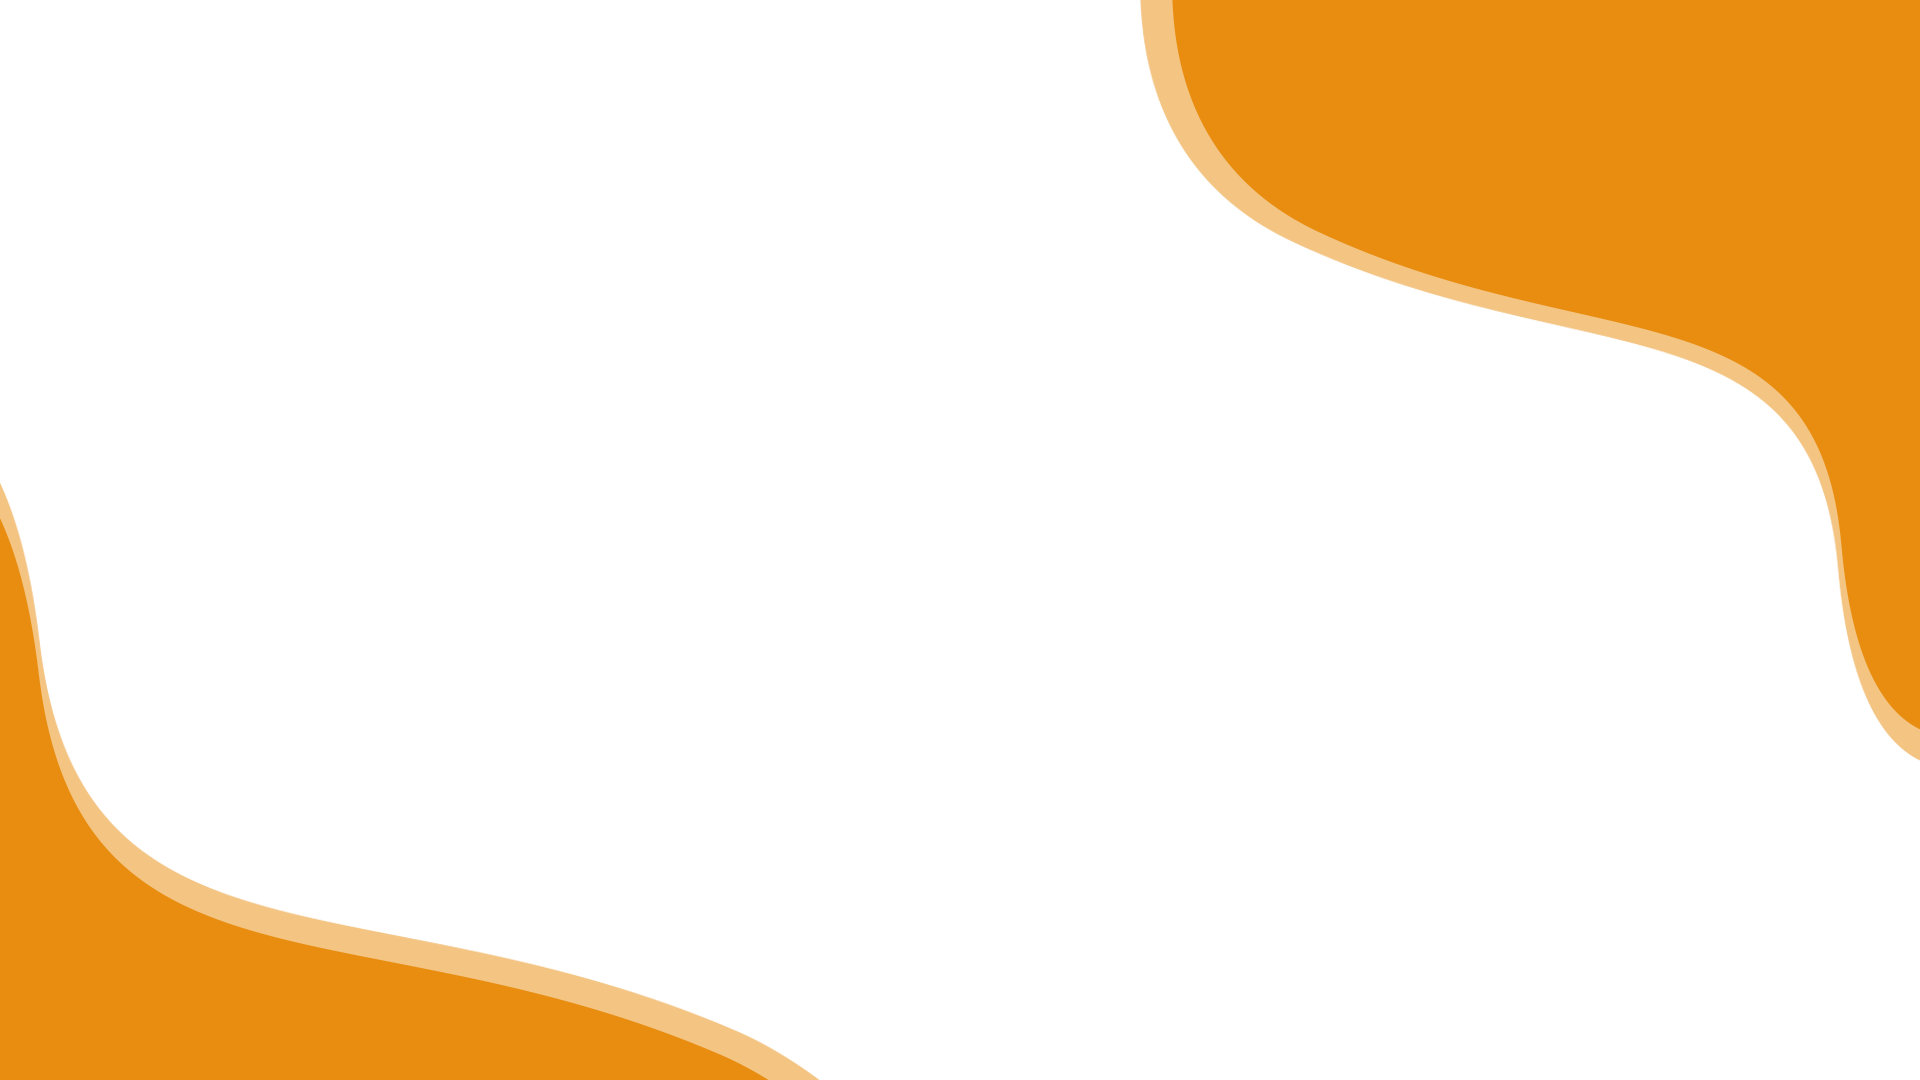
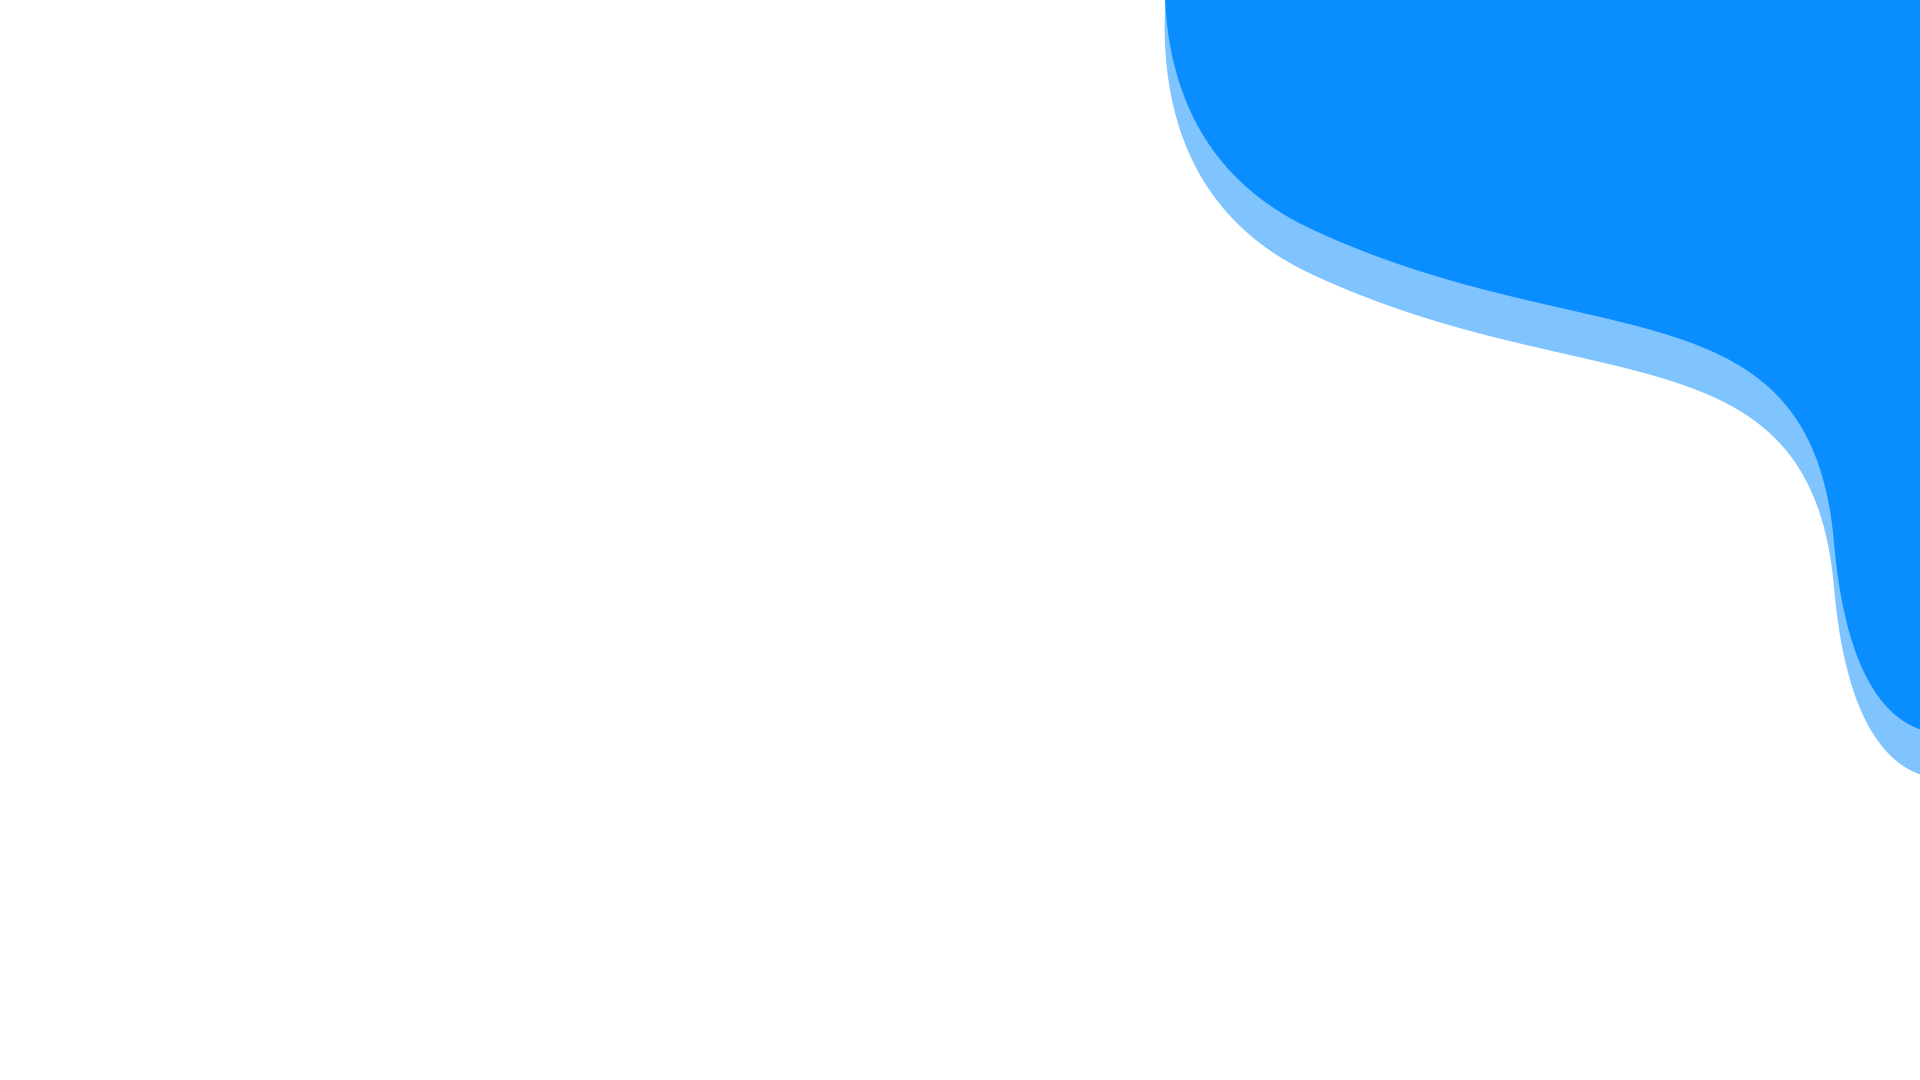
Cambios Gui

Changed region(s): [[0.5938, 0.0, 1.0, 0.7333], [0.0, 0.4583, 0.4375, 1.0]]

diff --git a/src/components/CardsOverlay.vue b/src/components/CardsOverlay.vue
@@ -1,72 +1,205 @@
 <template>
-    <!-- Container for demo purpose -->
-    <div class="container my-24 mx-auto md:px-6">
-        <!-- Section: Design Block -->
-        <section class="mb-32">
-            <!-- Jumbotron -->
-            <div class="container mx-auto text-center lg:text-left xl:px-32">
-                <div class="flex grid items-center lg:grid-cols-2">
-                  
-
-                    <div>
-                        <img src="https://mdbcdn.b-cdn.net/img/new/ecommerce/vertical/075.jpg"
-                            class="w-full rounded-lg shadow-lg dark:shadow-black/20" alt="" />
-                    </div>
-
-                    <div class="mb-12 lg:mb-0">
-                        <div
-                            class="block rounded-lg bg-[hsla(0,0%,100%,0.55)] px-6 py-12 shadow-[0_2px_15px_-3px_rgba(0,0,0,0.07),0_10px_20px_-2px_rgba(0,0,0,0.04)] dark:bg-[hsla(0,0%,5%,0.55)] dark:shadow-black/20 md:px-12 lg:-mr-14 backdrop-blur-[30px]">
-                            <h3 class="mb-3 text-2xl font-bold">
-                                We know how valuable your time is
-                            </h3>
-                            <h5 class="mb-12 text-lg font-bold text-primary dark:text-primary-400 lg:mb-10 xl:mb-12">
-                                Let us answer your questions
-                            </h5>
-
-                            <p class="mb-4 font-bold">
-                                Anim pariatur cliche reprehenderit?
-                            </p>
-                            <p class="mb-6 text-gray-500 dark:text-neutral-300">
-                                Lorem ipsum dolor sit amet consectetur, adipisicing elit. Sunt
-                                autem numquam dolore molestias aperiam culpa alias veritatis
-                                architecto eos, molestiae vitae ex eligendi libero eveniet
-                                dolorem, doloremque rem aliquid perferendis.
-                            </p>
-
-                            <p class="mb-4 font-bold">
-                                Non cupidatat skateboard dolor brunch?
-                            </p>
-                            <p class="mb-6 text-gray-500 dark:text-neutral-300">
-                                Distinctio corporis, iure facere ducimus quos consectetur ipsa
-                                ut magnam autem doloremque ex! Id, sequi. Voluptatum magnam
-                                sed fugit iusto minus et suscipit? Minima sunt at nulla
-                                tenetur, numquam unde quod modi magnam ab deserunt ipsam sint
-                                aliquid dolores libero repellendus cupiditate mollitia quidem
-                                dolorem odit
-                            </p>
-
-                            <p class="mb-4 font-bold">
-                                Praesentium voluptatibus temporibus consequatur non
-                                aspernatur?
-                            </p>
-                            <p class="text-gray-500 dark:text-neutral-300">
-                                Minima sunt at nulla tenetur, numquam unde quod modi magnam ab
-                                deserunt ipsam sint aliquid dolores libero repellendus
-                                cupiditate mollitia quidem dolorem.
-                            </p>
-                        </div>
-                    </div>
-                </div>
+<!-- Container for demo purpose -->
+<div class="container mx-auto w-100vw">
+    <!-- Section: Design Block -->
+    <section class="mb-32">
+     
+      <div class="text-center text-black lg:h-[400px] h-[300px] lg:pt-[80px] pt-[55px]">
+        <!-- <h2 class="mb-12 text-center text-3xl font-bold">Pricing</h2> -->
+      </div>
+  
+      <div class="grid px-6 md:px-12 lg:grid-cols-3 xl:px-32" style="margin-top: -200px">
+        <div class="p-0 py-12">
+          <div
+            class="block h-full rounded-lg bg-white shadow-[0_2px_15px_-3px_rgba(0,0,0,0.07),0_10px_20px_-2px_rgba(0,0,0,0.04)] dark:bg-neutral-700 lg:rounded-tr-none lg:rounded-br-none">
+            <div class="border-b-2 border-neutral-100 border-opacity-100 p-6 text-center dark:border-opacity-10">
+              <p class="mb-4 text-sm uppercase">
+                <strong>Basic</strong>
+              </p>
+              <h3 class="mb-6 text-3xl">
+                <strong>$ 129</strong>
+                <small class="text-base text-neutral-500 dark:text-neutral-300">/year</small>
+              </h3>
+  
+              <button type="button"
+                class="inline-block w-full rounded bg-primary-100 px-6 pt-2.5 pb-2 text-xs font-medium uppercase leading-normal text-primary-700 transition duration-150 ease-in-out hover:bg-primary-accent-100 focus:bg-primary-accent-100 focus:outline-none focus:ring-0 active:bg-primary-accent-200"
+                data-te-ripple-init data-te-ripple-color="light">
+                Buy
+              </button>
             </div>
-            <!-- Jumbotron -->
-        </section>
-        <!-- Section: Design Block -->
-    </div>
-    <!-- Container for demo purpose -->
+            <div class="p-6">
+              <ol class="list-inside">
+                <li class="mb-4 flex">
+                  <svg xmlns="http://www.w3.org/2000/svg" fill="none" viewBox="0 0 24 24" stroke-width="2"
+                    stroke="currentColor" class="mr-3 h-5 w-5 text-primary dark:text-primary-400">
+                    <path stroke-linecap="round" stroke-linejoin="round" d="M4.5 12.75l6 6 9-13.5" /></svg>Unlimited
+                  updates
+                </li>
+                <li class="mb-4 flex">
+                  <svg xmlns="http://www.w3.org/2000/svg" fill="none" viewBox="0 0 24 24" stroke-width="2"
+                    stroke="currentColor" class="mr-3 h-5 w-5 text-primary dark:text-primary-400">
+                    <path stroke-linecap="round" stroke-linejoin="round" d="M4.5 12.75l6 6 9-13.5" /></svg>Git
+                  repository
+                </li>
+                <li class="mb-4 flex">
+                  <svg xmlns="http://www.w3.org/2000/svg" fill="none" viewBox="0 0 24 24" stroke-width="2"
+                    stroke="currentColor" class="mr-3 h-5 w-5 text-primary dark:text-primary-400">
+                    <path stroke-linecap="round" stroke-linejoin="round" d="M4.5 12.75l6 6 9-13.5" /></svg>npm
+                  installation
+                </li>
+              </ol>
+            </div>
+          </div>
+        </div>
+  
+        <div>
+          <div
+            class="block h-full rounded-lg bg-white shadow-[0_2px_15px_-3px_rgba(0,0,0,0.07),0_10px_20px_-2px_rgba(0,0,0,0.04)] dark:bg-neutral-700"
+            style="z-index: 1">
+            <div class="border-b-2 border-neutral-100 border-opacity-100 p-6 text-center dark:border-opacity-10">
+              <p class="mb-4 text-sm uppercase">
+                <strong>Enterprise</strong>
+              </p>
+              <h3 class="mb-6 text-3xl">
+                <strong>$ 499</strong>
+                <small class="text-base text-neutral-500 dark:text-neutral-300">/year</small>
+              </h3>
+  
+              <button type="button"
+                class="inline-block w-full rounded bg-primary px-6 pt-2.5 pb-2 text-xs font-medium uppercase leading-normal text-white shadow-[0_4px_9px_-4px_#3b71ca] transition duration-150 ease-in-out hover:bg-primary-600 hover:shadow-[0_8px_9px_-4px_rgba(59,113,202,0.3),0_4px_18px_0_rgba(59,113,202,0.2)] focus:bg-primary-600 focus:shadow-[0_8px_9px_-4px_rgba(59,113,202,0.3),0_4px_18px_0_rgba(59,113,202,0.2)] focus:outline-none focus:ring-0 active:bg-primary-700 active:shadow-[0_8px_9px_-4px_rgba(59,113,202,0.3),0_4px_18px_0_rgba(59,113,202,0.2)] dark:shadow-[0_4px_9px_-4px_rgba(59,113,202,0.5)] dark:hover:shadow-[0_8px_9px_-4px_rgba(59,113,202,0.2),0_4px_18px_0_rgba(59,113,202,0.1)] dark:focus:shadow-[0_8px_9px_-4px_rgba(59,113,202,0.2),0_4px_18px_0_rgba(59,113,202,0.1)] dark:active:shadow-[0_8px_9px_-4px_rgba(59,113,202,0.2),0_4px_18px_0_rgba(59,113,202,0.1)]"
+                data-te-ripple-init data-te-ripple-color="light">
+                Buy
+              </button>
+            </div>
+            <div class="p-6">
+              <ol class="list-inside">
+                <li class="mb-4 flex">
+                  <svg xmlns="http://www.w3.org/2000/svg" fill="none" viewBox="0 0 24 24" stroke-width="2"
+                    stroke="currentColor" class="mr-3 h-5 w-5 text-primary dark:text-primary-400">
+                    <path stroke-linecap="round" stroke-linejoin="round" d="M4.5 12.75l6 6 9-13.5" /></svg>Unlimited
+                  updates
+                </li>
+                <li class="mb-4 flex">
+                  <svg xmlns="http://www.w3.org/2000/svg" fill="none" viewBox="0 0 24 24" stroke-width="2"
+                    stroke="currentColor" class="mr-3 h-5 w-5 text-primary dark:text-primary-400">
+                    <path stroke-linecap="round" stroke-linejoin="round" d="M4.5 12.75l6 6 9-13.5" /></svg>Git
+                  repository
+                </li>
+                <li class="mb-4 flex">
+                  <svg xmlns="http://www.w3.org/2000/svg" fill="none" viewBox="0 0 24 24" stroke-width="2"
+                    stroke="currentColor" class="mr-3 h-5 w-5 text-primary dark:text-primary-400">
+                    <path stroke-linecap="round" stroke-linejoin="round" d="M4.5 12.75l6 6 9-13.5" /></svg>npm
+                  installation
+                </li>
+                <li class="mb-4 flex">
+                  <svg xmlns="http://www.w3.org/2000/svg" fill="none" viewBox="0 0 24 24" stroke-width="2"
+                    stroke="currentColor" class="mr-3 h-5 w-5 text-primary dark:text-primary-400">
+                    <path stroke-linecap="round" stroke-linejoin="round" d="M4.5 12.75l6 6 9-13.5" /></svg>Code examples
+                </li>
+                <li class="mb-4 flex">
+                  <svg xmlns="http://www.w3.org/2000/svg" fill="none" viewBox="0 0 24 24" stroke-width="2"
+                    stroke="currentColor" class="mr-3 h-5 w-5 text-primary dark:text-primary-400">
+                    <path stroke-linecap="round" stroke-linejoin="round" d="M4.5 12.75l6 6 9-13.5" /></svg>Premium
+                  snippets
+                </li>
+                <li class="mb-4 flex">
+                  <svg xmlns="http://www.w3.org/2000/svg" fill="none" viewBox="0 0 24 24" stroke-width="2"
+                    stroke="currentColor" class="mr-3 h-5 w-5 text-primary dark:text-primary-400">
+                    <path stroke-linecap="round" stroke-linejoin="round" d="M4.5 12.75l6 6 9-13.5" /></svg>Premium
+                  support
+                </li>
+                <li class="mb-4 flex">
+                  <svg xmlns="http://www.w3.org/2000/svg" fill="none" viewBox="0 0 24 24" stroke-width="2"
+                    stroke="currentColor" class="mr-3 h-5 w-5 text-primary dark:text-primary-400">
+                    <path stroke-linecap="round" stroke-linejoin="round" d="M4.5 12.75l6 6 9-13.5" /></svg>Drag&amp;Drop
+                  builder
+                </li>
+              </ol>
+            </div>
+          </div>
+        </div>
+  
+        <div class="py-12">
+          <div
+            class="block h-full rounded-lg bg-white shadow-[0_2px_15px_-3px_rgba(0,0,0,0.07),0_10px_20px_-2px_rgba(0,0,0,0.04)] dark:bg-neutral-700 lg:rounded-tl-none lg:rounded-bl-none">
+            <div class="border-b-2 border-neutral-100 border-opacity-100 p-6 text-center dark:border-opacity-10">
+              <p class="mb-4 text-sm uppercase">
+                <strong>Advanced</strong>
+              </p>
+              <h3 class="mb-6 text-3xl">
+                <strong>$ 299</strong>
+                <small class="text-base text-neutral-500 dark:text-neutral-300">/year</small>
+              </h3>
+  
+              <button type="button"
+                class="inline-block w-full rounded bg-primary-100 px-6 pt-2.5 pb-2 text-xs font-medium uppercase leading-normal text-primary-700 transition duration-150 ease-in-out hover:bg-primary-accent-100 focus:bg-primary-accent-100 focus:outline-none focus:ring-0 active:bg-primary-accent-200"
+                data-te-ripple-init data-te-ripple-color="light">
+                Buy
+              </button>
+            </div>
+            <div class="p-6">
+              <ol class="list-inside">
+                <li class="mb-4 flex">
+                  <svg xmlns="http://www.w3.org/2000/svg" fill="none" viewBox="0 0 24 24" stroke-width="2"
+                    stroke="currentColor" class="mr-3 h-5 w-5 text-primary dark:text-primary-400">
+                    <path stroke-linecap="round" stroke-linejoin="round" d="M4.5 12.75l6 6 9-13.5" /></svg>Unlimited
+                  updates
+                </li>
+                <li class="mb-4 flex">
+                  <svg xmlns="http://www.w3.org/2000/svg" fill="none" viewBox="0 0 24 24" stroke-width="2"
+                    stroke="currentColor" class="mr-3 h-5 w-5 text-primary dark:text-primary-400">
+                    <path stroke-linecap="round" stroke-linejoin="round" d="M4.5 12.75l6 6 9-13.5" /></svg>Git
+                  repository
+                </li>
+                <li class="mb-4 flex">
+                  <svg xmlns="http://www.w3.org/2000/svg" fill="none" viewBox="0 0 24 24" stroke-width="2"
+                    stroke="currentColor" class="mr-3 h-5 w-5 text-primary dark:text-primary-400">
+                    <path stroke-linecap="round" stroke-linejoin="round" d="M4.5 12.75l6 6 9-13.5" /></svg>npm
+                  installation
+                </li>
+                <li class="mb-4 flex">
+                  <svg xmlns="http://www.w3.org/2000/svg" fill="none" viewBox="0 0 24 24" stroke-width="2"
+                    stroke="currentColor" class="mr-3 h-5 w-5 text-primary dark:text-primary-400">
+                    <path stroke-linecap="round" stroke-linejoin="round" d="M4.5 12.75l6 6 9-13.5" /></svg>Code examples
+                </li>
+                <li class="mb-4 flex">
+                  <svg xmlns="http://www.w3.org/2000/svg" fill="none" viewBox="0 0 24 24" stroke-width="2"
+                    stroke="currentColor" class="mr-3 h-5 w-5 text-primary dark:text-primary-400">
+                    <path stroke-linecap="round" stroke-linejoin="round" d="M4.5 12.75l6 6 9-13.5" /></svg>Premium
+                  snippets
+                </li>
+              </ol>
+            </div>
+          </div>
+        </div>
+      </div>
+    </section>
+    <!-- Section: Design Block -->
+  </div>
+  <!-- Container for demo purpose -->
+  
 </template>
 
 <script setup>
 
 </script>
 
-<style></style>
+<style>
+
+.background-radial-gradient {
+    background-color: hsl(218, 41%, 15%);
+    background-image: radial-gradient(650px circle at 0% 0%,
+        hsl(218, 41%, 35%) 15%,
+        hsl(218, 41%, 30%) 35%,
+        hsl(218, 41%, 20%) 75%,
+        hsl(218, 41%, 19%) 80%,
+        transparent 100%),
+      radial-gradient(1250px circle at 100% 100%,
+        hsl(218, 41%, 45%) 15%,
+        hsl(218, 41%, 30%) 35%,
+        hsl(218, 41%, 20%) 75%,
+        hsl(218, 41%, 19%) 80%,
+        transparent 100%);
+  }
+
+</style>

diff --git a/src/pages/LandingPage.vue b/src/pages/LandingPage.vue
@@ -1,6 +1,6 @@
 <template>
     <div
-    class="relative h-screen overflow-hidden bg-contain bg-[50%] bg-no-repeat">
+    class="relative h-screen overflow-hidden bg-contain bg-[50%] bg-no-repeat bg-light-blue">
     <img
         src="../assets/img/Landing4.png"
         class="h-screen m-0 w-full" />
@@ -9,7 +9,7 @@
         >
         <div class="flex h-full items-center justify-center px-5 w-11/12 mx-auto gap-16">
             <div class="md:w-1/3 padding-inline-start mx-auto transform -translate-y-10">
-              <h1 class="mb-2 mt-0 text-5xl font-medium leading-tight text-black md:text-start ">
+              <h1 class="mb-4 mt-0 text-4xl font-bold c-primary md:text-start ">
                 Solar Panel
               </h1>
               <p class="text-gray-700 text-justify text-md">
@@ -28,29 +28,18 @@
               
             </div>
             <div class="w-1/2 hidden md:block pe-3">
-              <img src="../assets/img/isometric.png" class="move" />
+              <img src="../assets/img/isometric3.png" class="move" />
             </div>
         </div>
     </div>
 </div>
 
-<div class="w-full h-screen relative h-screen overflow-hidden bg-contain bg-no-repeat" style="height: 100vh; width: 100vw;">
-    <img
-    src="../assets/img/SecondPage.png"
-    class="h-screen m-0 w-full" />
-
-    <div class="flex h-full items-center justify-center ">
-        
-            <img
-            src="../assets/img/space.jpg"
-            style="transform: translateY(-1000px);"
-            class="h-auto max-w-sm rounded-lg shadow-none transition-shadow duration-300 ease-in-out hover:shadow-lg hover:shadow-black/30"
-            alt="" />
-       
-        <!-- <CardsOverlay style="transform: translateY(-800px)"/> -->
-    </div>
-
+<div class="w-full h-50 " style="
+transform: translateY(-308px);
+">
+  <CardsOverlay class="w-full"/>
 </div>
+
 
 
 </template>

diff --git a/src/index.css b/src/index.css
@@ -1,15 +1,16 @@
-@import url('https://fonts.googleapis.com/css?family=Lato&display=swap');
+@import url('https://fonts.googleapis.com/css2?family=Poppins:ital,wght@0,100;0,200;0,300;0,400;0,500;0,600;0,700;0,800;0,900;1,100;1,200;1,300;1,400;1,500;1,600;1,700;1,800;1,900&display=swap');
 @tailwind base;
 @tailwind components;
 @tailwind utilities;
 
 :root{
-    --primary: #f08c14;
+    --primary: #508cfc;
+    --light-blue: #def4ff;
 }
 
 body{
-  font-family: 'Lato', sans-serif;
-  background-color: rgb(245, 245, 245);
+  font-family: 'Poppins', sans-serif;
+  background-color: rgb(255, 255, 255);
 }
 
 .c-primary{
@@ -18,4 +19,12 @@ body{
 
 .bg-primary{
     background-color: var(--primary) !important;
+}
+
+.w-100vw {
+  width: 100vw;
+}
+
+.bg-light-blue{
+    background-color: var(--light-blue);
 }

diff --git a/src/router/index.js b/src/router/index.js
@@ -13,7 +13,7 @@ import Tooltip from "../components/Tooltip.vue";
 import Modal from "../components/Modal.vue";
 import Navbar from "../components/Navbar.vue"
 import LandingPage from "../pages/LandingPage.vue"
-import Clients from "../pages/Clients.vue"
+// import Clients from "../pages/Clients.vue"
 
 
 const routes = [
@@ -26,11 +26,11 @@ const routes = [
     name: "Landing",
     component: LandingPage,
   },
-  {
-    path: "/clients",
-    name: "Clients",
-    component: Clients,
-  },
+  // {
+  //   path: "/clients",
+  //   name: "Clients",
+  //   component: Clients,
+  // },
   {
     path: "/events",
     name: "Events",
